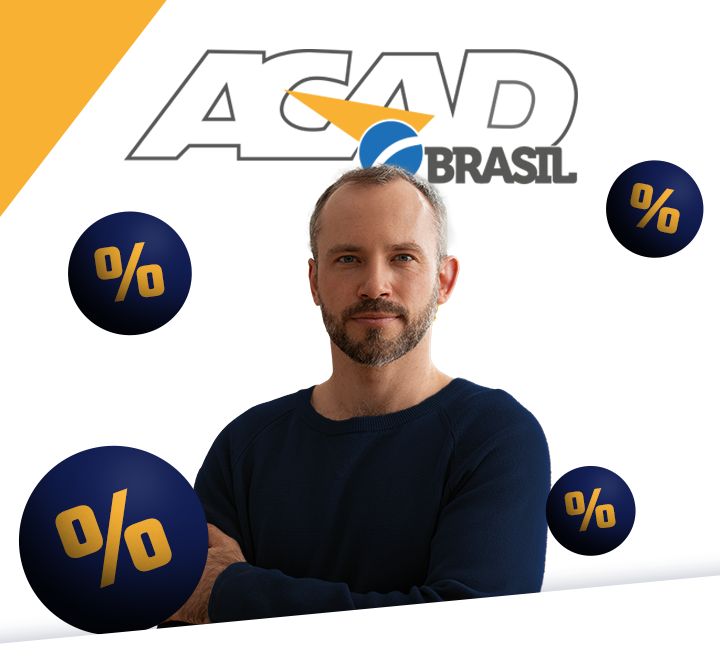
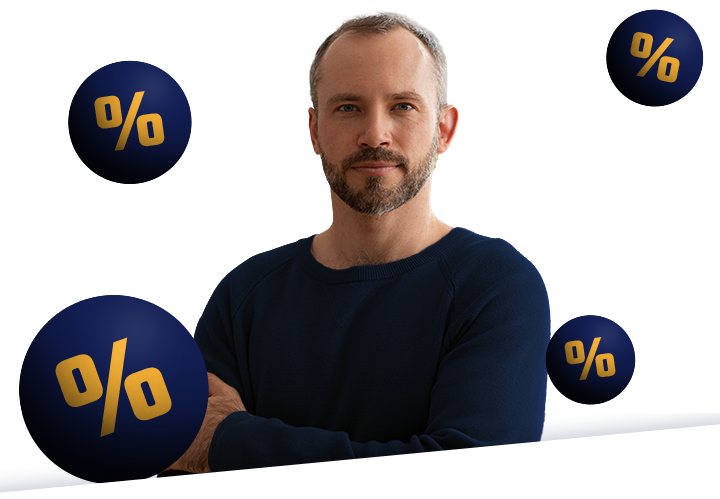
fixing responsivity

diff --git a/src/app/components/LastScreen/index.tsx b/src/app/components/LastScreen/index.tsx
@@ -1,4 +1,4 @@
-import { BlueForm } from '@/app/components/BackgroundForms';
+import { BlueAndYellowForms, BlueForm } from '@/app/components/BackgroundForms';
 import { Button } from '@/app/components/Button';
 import Link from 'next/link';
 import React from 'react'
@@ -9,19 +9,24 @@ interface LastScreenProps{
 }
 export const LastScreen = ({userName, economyValue}:LastScreenProps) => {
   return (
-    <div className='w-full h-fit text-center flex flex-col md:flex-row items-center justify-between relative '>
-      <BlueForm className='absolute bottom-0 right-0'/>
-      <div className='w-full text-left md:flex md:flex-col md:items-start md:justify-between h-screen md:w-[50%]'>
-        <img src={'/imgs/discount-man.png'} alt='Homem com ícones de desconto' className='mt-[42%] block md:hidden'/>
+    <div className='w-full h-screen text-center flex flex-col md:flex-row items-center  relative '>
+      <BlueAndYellowForms className=''/>
+      <div className='w-full md:w-[50%] text-left flex flex-col items-center justify-center pt-12 mb-4 md:-mb-4'>
+        <img src='/imgs/acad-logo.png' alt='Acad Logotipo' className='max-w-[300px] -mb-8 '/>
+        <img src={'/imgs/discount-man.png'} alt='Homem com ícones de desconto' className='w-full  block md:hidden'/>
         <img src={'/imgs/discount-man-vertical.png'} alt='Homem com ícones de desconto' className='hidden md:block  w-full object-contain max-w-[752px]  text-left'/>
       </div>
-      <div className='flex flex-col items-center justify-center md:w-[50%]'>
-        <h2 className='text-2xl text-acad-blue font-bold uppercase mb-4'>{userName}, <b>com a Acad,</b> você pode economizar:</h2>
-        <div className='bg-acad-yellow text-acad-blue text-4xl font-bold px-4 py-2 rounded-2xl w-[90%] max-w-[600px]'>R$ {economyValue} </div>
-        <p className='text-acad-blue font-bold uppercase mt-4 mb-18  text-2xl md:mt-8'>Por ano!</p>
-        <div className='relative flex flex-col gap-4'>
-          <Button onClick={() => ''} className=''>Quero economizar agora!</Button>
-          <Link href='#' className='uppercase font-bold text-acad-blue underline mb-24 md:mb-0'>Não, eu não quero economizar</Link>
+      <div className='flex flex-col items-center justify-between md:w-[50%] gap-12'>
+        <div className='flex flex-col justify-center items-center'>
+          <h2 className='text-2xl text-acad-blue font-bold uppercase mb-4'>{userName}, <b>com a Acad,</b> você pode economizar:</h2>
+          <div className='bg-acad-yellow text-acad-blue text-4xl font-bold px-4 py-2 rounded-2xl w-[90%] max-w-[600px]'>R$ {economyValue} </div>
+          <p className='text-acad-blue font-bold uppercase mt-4   text-2xl md:mt-8'>Por ano!</p>
+        </div>
+        <div>
+          <div className='relative flex flex-col gap-4'>
+            <Button onClick={() => ''} className=''>Quero economizar agora!</Button>
+            <Link href='#' className='uppercase font-bold text-acad-blue underline mb-24 md:mb-0'>Não, eu não quero economizar</Link>
+          </div>
         </div>
       </div>
     </div>

diff --git a/src/app/page.tsx b/src/app/page.tsx
@@ -1,5 +1,5 @@
 'use client'
-import { BlueForm } from "@/app/components/BackgroundForms";
+import { BlueAndYellowForms, BlueForm } from "@/app/components/BackgroundForms";
 import { Button } from "@/app/components/Button";
 import { Form } from "@/app/components/Form";
 import { LastScreen } from "@/app/components/LastScreen";
@@ -14,7 +14,7 @@ export default function Home() {
   
 
   return (
-    <main className="h-screen flex items-center justify-center relative">
+    <main className="flex items-center justify-center relative">
       {isAppStarted ? 
         isLastScreen?
           <LastScreen userName={userName} economyValue={10000}/>:<Form isLastScreen={isLastScreen} setIsLastScreen={setIsLastScreen} userName={userName} setUserName={setUserName} isAppStarted={isAppStarted} setIsAppStarted={setIsAppStarted}/>
@@ -27,10 +27,11 @@ export default function Home() {
 
 const BeforeInitApp = ({isAppStarted, setIsAppStarted}:{isAppStarted:boolean, setIsAppStarted:(isAppStarted:boolean)=>void}) => {
   return(
-    <div className='w-full h-fit text-center flex flex-col items-center gap-4 md:flex-row relative'>
-      <BlueForm className='absolute bottom-0 right-0'/>
-      <div className='w-full text-left md:flex md:flex-col md:items-start md:justify-between md:h-screen md:w-[50%]'>
-        <img src={'/imgs/discount-man.png'} alt='Homem com ícones de desconto' className='w-full mt-58 block md:hidden'/>
+    <div className='w-full min-h-screen text-center flex flex-col justify-start items-center gap-4 md:flex-row relative'>
+      <BlueAndYellowForms className=''/>
+      <div className='w-full md:w-[50%] text-center flex flex-col items-center justify-center md:items-center md:justify-center pt-12'>
+        <img src='/imgs/acad-logo.png' alt='Acad Logotipo' className='max-w-[300px] -mb-4 '/>
+        <img src={'/imgs/discount-man.png'} alt='Homem com ícones de desconto' className='w-full  block md:hidden'/>
         <img src={'/imgs/discount-man-vertical.png'} alt='Homem com ícones de desconto' className='hidden md:block  w-full object-contain max-w-[752px]  text-left'/>
       </div>
       <div className='flex flex-col items-center justify-center md:justify-start md:text-start md:w-[50%] gap-4 mb-24 md:mb-0 px-4'>
@@ -39,7 +40,7 @@ const BeforeInitApp = ({isAppStarted, setIsAppStarted}:{isAppStarted:boolean, se
         <div className='w-full flex justify-center md:justify-start md:mt-12'>
           <Button onClick={() => setIsAppStarted(true)}>Calcular minha economia agora</Button>
         </div>
-        <Link href='https://diagonal.ag/' target='_blank' className='absolute bottom-2'>
+        <Link href='https://diagonal.ag/' target='_blank' className='mt-12'>
           <img src={'/imgs/feito-por-diagonal.png'} alt='diagonal-copyright' />
         </Link>
       </div>

diff --git a/src/app/layout.tsx b/src/app/layout.tsx
@@ -14,7 +14,7 @@ export const metadata: Metadata = {
 export default function RootLayout({children}:Readonly<{children: React.ReactNode;}>) {
   return (
     <html lang="pt-br">
-      <body className={`${montSerrat.className} antialiased`}>
+      <body className={`${montSerrat.className} antialiased h-screen`}>
         {children}
       </body>
     </html>
